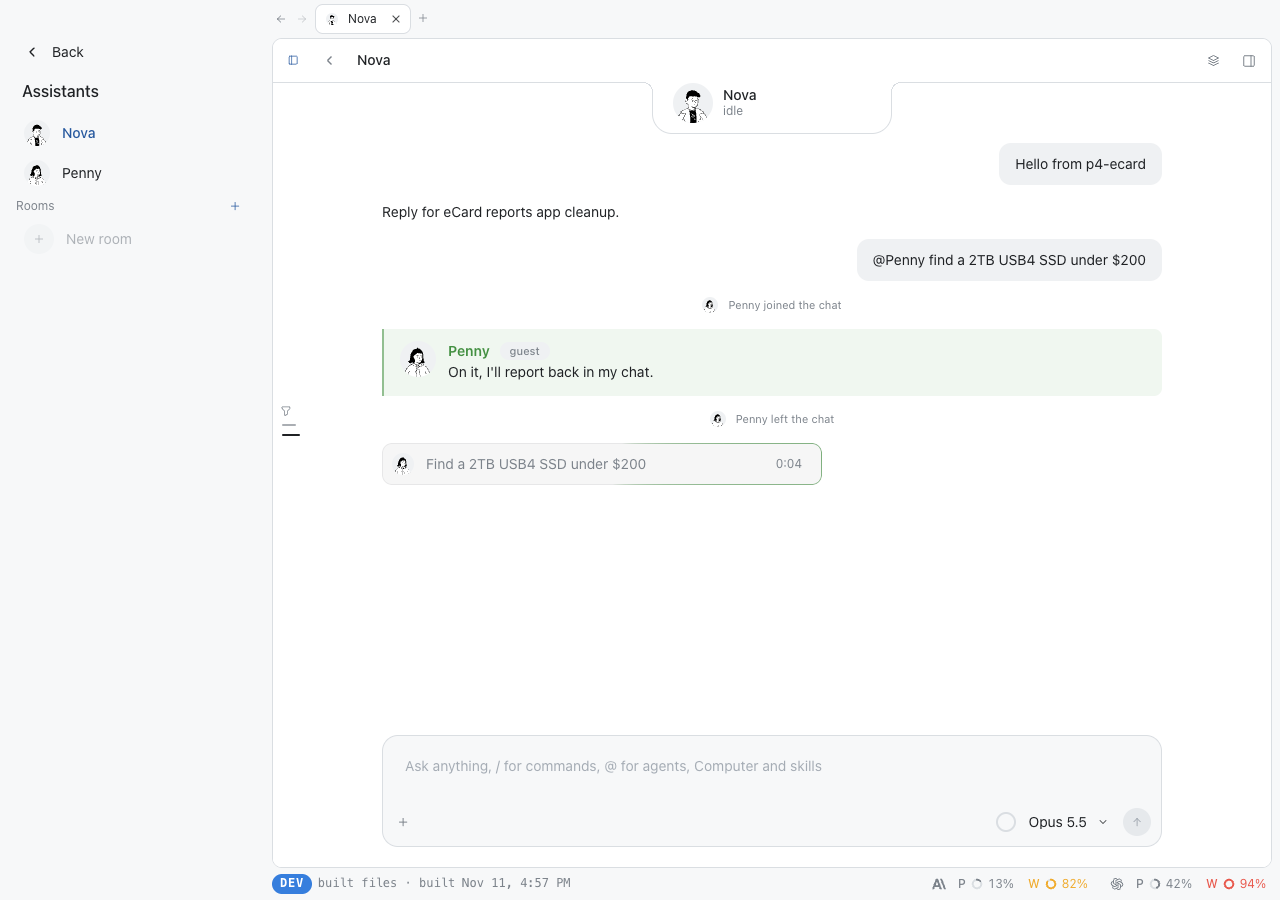
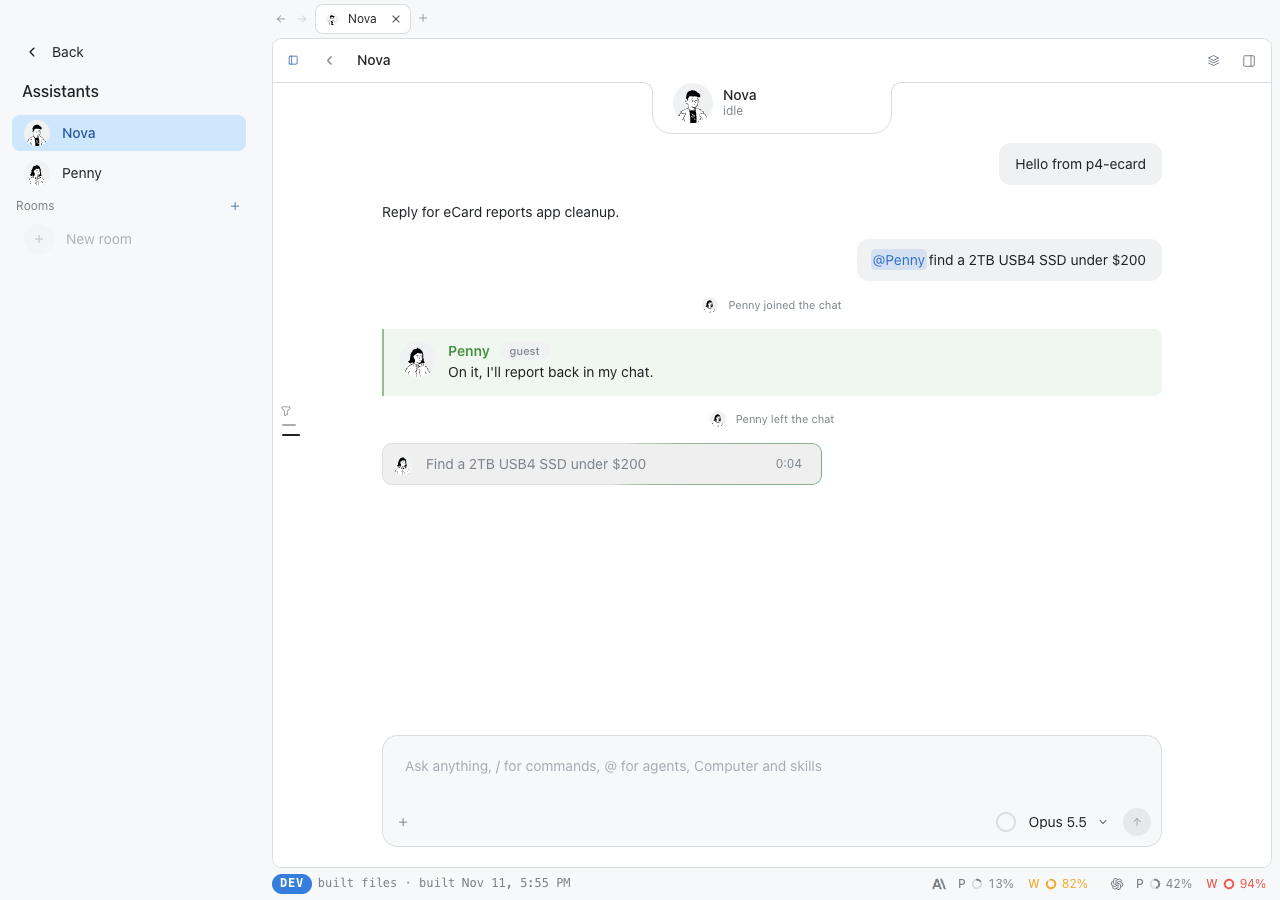
rooms: decision face stack and @assistant chips in 1:1 user bubbles

Changed region(s): [[0.0, 0.1244, 0.2188, 0.1867], [0.6562, 0.2489, 0.75, 0.3111]]

diff --git a/apps/desktop/src/renderer/rooms/RoomFeed.tsx b/apps/desktop/src/renderer/rooms/RoomFeed.tsx
@@ -1,6 +1,6 @@
 import { IconArrowDown, IconBrain, IconFileSearch, IconPin } from '@tabler/icons-react'
 import { Fragment, useEffect, useLayoutEffect, useMemo, useRef, useState } from 'react'
-import { ROOM_SYSTEM, isDecisionCard, mentionSpans } from '@evaos/contract'
+import { ROOM_SYSTEM, isDecisionCard } from '@evaos/contract'
 import { Markdown } from '../chat/markdown/Markdown'
 import '../chat/chat.css'
 import '../chat/composer/composer.css'
@@ -9,6 +9,7 @@ import { TypingDots } from '../ui/TypingDots'
 import { catchUp, sinceIndex } from './decision-view'
 import { RoomDecisionCard, SeatAskView } from './DecisionCards'
 import { MemberFace } from './MemberStack'
+import { MentionText } from './MentionText'
 import { mentionMarkdown } from './mentions'
 import { presenceGroups } from './presence'
 import { RoomMessageRow, authorOf } from './RoomMessageRow'
@@ -30,24 +31,12 @@ const parseSeen: Parse<Record<string, string>> = (v) =>
     : null
 
 /** Isaac's text with its @mentions as the composer's chips. */
-function MentionText({ text, room }: { text: string; room: Room }) {
-  const people = [...room.agents, { id: ISAAC_PERSON.id, name: ISAAC_PERSON.name }]
-  let at = 0
-  const parts = mentionSpans(text, people).map((s) => {
-    const before = text.slice(at, s.start)
-    at = s.end
-    return (
-      <Fragment key={s.start}>
-        {before}
-        <span className="eva-at-chip">{text.slice(s.start, s.end)}</span>
-      </Fragment>
-    )
-  })
+function RoomMentionText({ text, room }: { text: string; room: Room }) {
   return (
-    <>
-      {parts}
-      {text.slice(at)}
-    </>
+    <MentionText
+      text={text}
+      people={[...room.agents, { id: ISAAC_PERSON.id, name: ISAAC_PERSON.name }]}
+    />
   )
 }
 
@@ -64,7 +53,7 @@ function ChatRoomOwnRow({ msg, room }: { msg: RoomMessage; room: Room }) {
     <div className="eva-room-isaac" data-testid={`room-msg-${msg.id}`} data-author={msg.author}>
       <div className="eva-turn-user">
         <div className="eva-bubble">
-          <MentionText text={msg.text} room={room} />
+          <RoomMentionText text={msg.text} room={room} />
         </div>
       </div>
     </div>

diff --git a/apps/desktop/src/renderer/chat/MessageRow.tsx b/apps/desktop/src/renderer/chat/MessageRow.tsx
@@ -26,6 +26,8 @@ import { RoomCards } from '../rooms/RoomCard'
 import { ReplyChips } from './ReplyChips'
 import { SignInCard } from './SignInCard'
 import { resolveAsk } from './asks/asks-store'
+import { useAssistants } from '../assistants/assistants-store'
+import { MentionText } from '../rooms/MentionText'
 import type { OpenAsk } from '@evaos/contract'
 
 /** Thumbnails for a message's images; Enter or click opens the viewer on that image. */
@@ -168,6 +170,13 @@ function AssistantBody({
   )
 }
 
+/** A user bubble's text, the registry assistants' `@Name`s as the room's chips (@computer and unknown words stay plain). */
+function AssistantMentions({ text }: { text: string }) {
+  const agents = useAssistants((s) => s.data?.agents)
+  const people = useMemo(() => (agents ?? []).map((a) => ({ id: a.id, name: a.title })), [agents])
+  return <MentionText text={text} people={people} />
+}
+
 /**
  * `live`: the newest row of an idle chat, the one tap-to-answer replies show under. `waiting`: the
  * open ask (of assistant `agent`'s thread) this row carries; it keeps its replies, an accent edge
@@ -200,7 +209,9 @@ function MessageRowImpl({
         {text ? pictures : null}
         <BubbleActions m={m} corner="start">
           {text ? (
-            <div className="eva-bubble">{linked.rest}</div>
+            <div className="eva-bubble">
+              <AssistantMentions text={linked.rest} />
+            </div>
           ) : (
             <>
               <Images images={m.images} />

diff --git a/apps/desktop/src/renderer/rooms/decisions.css b/apps/desktop/src/renderer/rooms/decisions.css
@@ -147,8 +147,8 @@
   display: inline-grid;
   place-items: center;
   box-sizing: border-box;
-  width: 16px;
-  height: 16px;
+  width: 22px;
+  height: 22px;
   overflow: hidden;
   border: 1px solid var(--mantine-color-gray-2);
   border-radius: 5px;
@@ -170,12 +170,23 @@
 .eva-dec-face[data-empty] {
   visibility: hidden;
 }
-/* Each face takes 11px of a 16px face: the next one overlaps it. */
+/* A cluster like the room's MemberStack: faces overlap by a negative margin, each ringed in the page
+   color so the one on top reads cleanly; Isaac's badge is the same size and ring. */
 .eva-dec-faces {
-  display: inline-grid;
-  grid-auto-flow: column;
-  grid-auto-columns: 11px;
+  display: inline-flex;
   align-items: center;
+}
+.eva-dec-faces > .eva-dec-face {
+  position: relative;
+  box-shadow: 0 0 0 2px var(--mantine-color-body);
+}
+.eva-dec-faces > .eva-dec-face + .eva-dec-face {
+  margin-left: calc(-1 * var(--eva-gap));
+}
+/* A letter face under the next one sits left of center so the overlap never clips it. */
+.eva-dec-faces > .eva-dec-face:not(:last-child) {
+  justify-items: start;
+  text-indent: 4px;
 }
 
 /* poll: option rows, the bar is the tally */

diff --git a/apps/desktop/e2e/assistant-guests.spec.ts b/apps/desktop/e2e/assistant-guests.spec.ts
@@ -116,6 +116,11 @@ test('S3 a guest joins, answers as a guest bubble, leaves, and its errand is one
   await shell.getByTestId('sidebar-agent-nova').click()
   const log = shell.locator(LOG)
   await expect(log.locator(sel('guest-line'))).toContainText('Penny joined the chat')
+  // Isaac's "@Penny ..." is the room's chip in his bubble, the rest plain text.
+  const bubble = log.locator('.eva-turn-user .eva-bubble', { hasText: 'find a 2TB USB4 SSD' })
+  await expect(bubble.locator('.eva-at-chip')).toHaveText('@Penny')
+  await expect(bubble).toContainText('find a 2TB USB4 SSD under $200')
+  await bubble.screenshot({ path: path.join(PROOF, 's5-polish-chip.png') })
   // Joined and not spoken yet: Penny is typing.
   await expect(log.locator(`${sel('chat-typing')} [aria-label="Penny is typing"]`)).toBeVisible()
 

diff --git a/apps/desktop/src/renderer/rooms/MentionText.tsx b/apps/desktop/src/renderer/rooms/MentionText.tsx
@@ -1,0 +1,25 @@
+import { Fragment } from 'react'
+import { mentionSpans } from '@evaos/contract'
+import type { Mentionable } from '@relay/canvas-live/mentions'
+import '../chat/composer/composer.css'
+
+/** Isaac's text with the @mentions of `people` as the composer's chips; anything else stays plain. */
+export function MentionText({ text, people }: { text: string; people: readonly Mentionable[] }) {
+  let at = 0
+  const parts = mentionSpans(text, people).map((s) => {
+    const before = text.slice(at, s.start)
+    at = s.end
+    return (
+      <Fragment key={s.start}>
+        {before}
+        <span className="eva-at-chip">{text.slice(s.start, s.end)}</span>
+      </Fragment>
+    )
+  })
+  return (
+    <>
+      {parts}
+      {text.slice(at)}
+    </>
+  )
+}

diff --git a/apps/desktop/e2e/rooms-assistants.spec.ts b/apps/desktop/e2e/rooms-assistants.spec.ts
@@ -503,6 +503,7 @@ test('S4 decision cards: poll, votes, pros/cons, a question, the call; Where we 
   await expect(where.locator(sel('room-where-you'))).toHaveCount(0)
   await expect(poll).toHaveAttribute('data-state', 'called')
   await shot(shell, 's4-accepted.png')
+  await record.screenshot({ path: path.join(PROOF, 's5-polish-decision.png') })
   await expect
     .poll(() => fromDisk().messages.find((m) => m.card?.type === 'decision')?.card?.state)
     .toBe('accepted')

diff --git a/HANDOFF.md b/HANDOFF.md
@@ -300,6 +300,8 @@ README with the rooms.create/rooms.update shape, screenshots in refs/), served a
     with `rooms`) moved to db47bff56b for new omp sessions. Host process not rebuilt (no host route needed).
     Phone JS on main, no OTA.
 
+- S5 polish (RoomsPolish): decision-record face clusters are a clean overlapping stack (22px squares, eva-gap overlap, page-color ring, Isaac's badge same size); 1:1 user bubbles show registry `@Assistant` mentions as the room's `.eva-at-chip` (shared rooms/MentionText.tsx; @computer and unknown words plain). Proof: proof/rooms-assistants/s5-polish-decision.png, s5-polish-chip.png; sha/build id in the final report.
+
 ## For Isaac
 - Relay Host: install the consolidated host build Eva makes from main (S2 chat rooms on the phone, S3
   consult, S4 rooms.decide), then restart every assistant's omp (S3's relay-bridge `guest` request; on the
